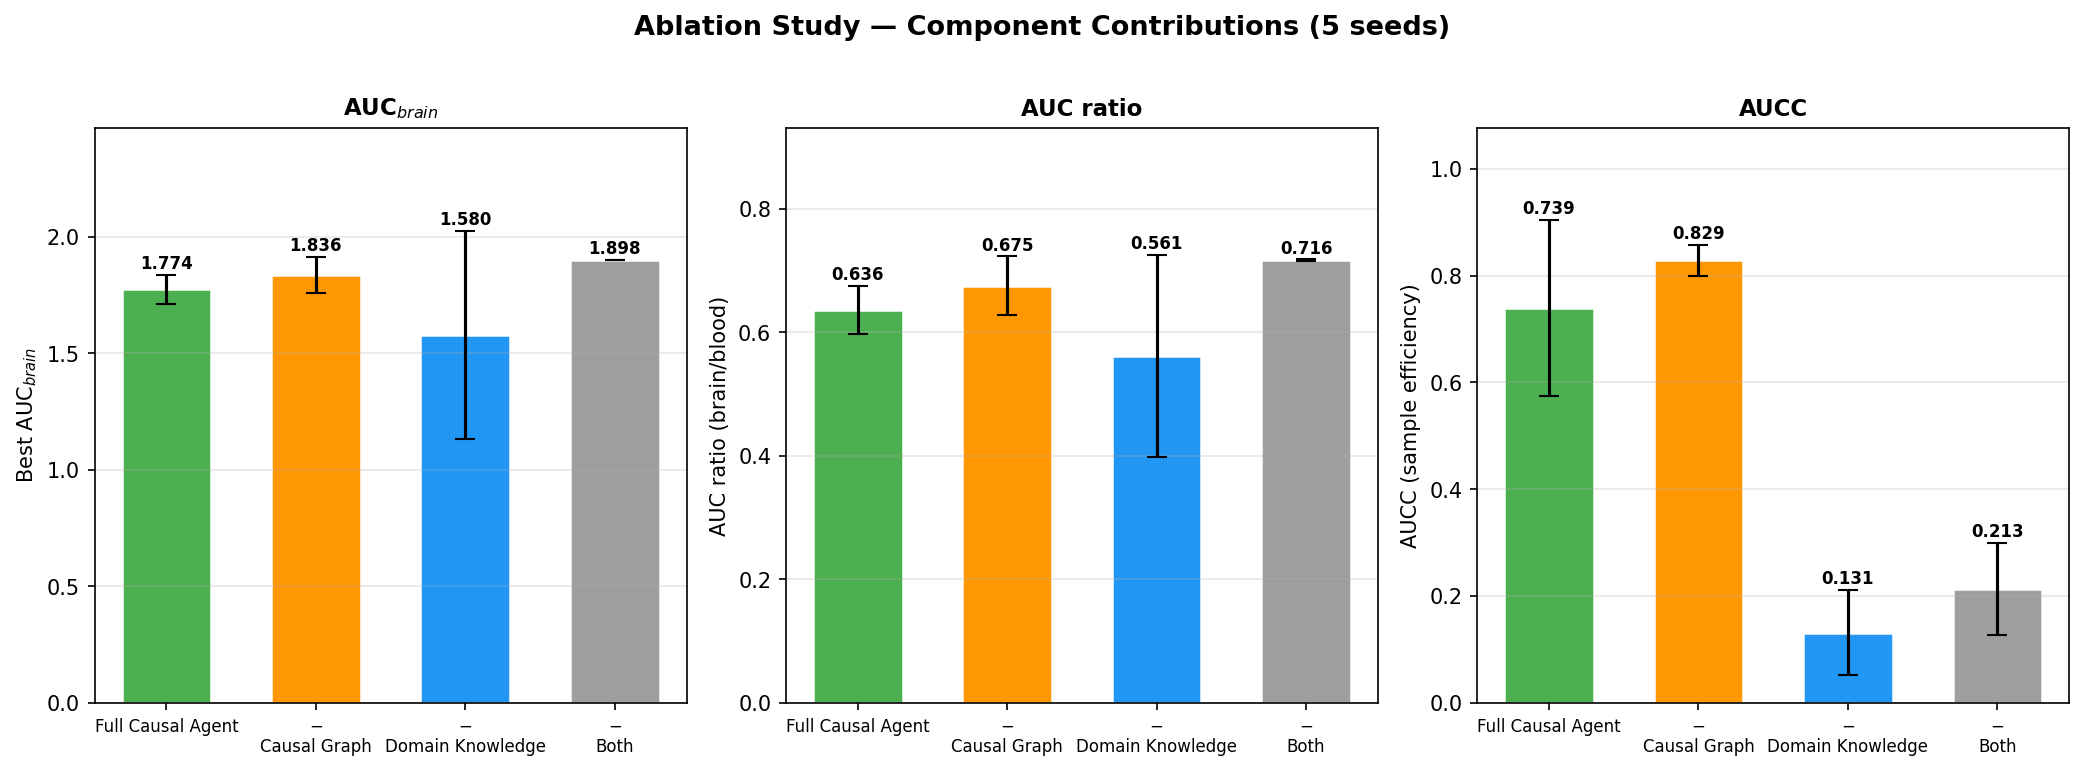
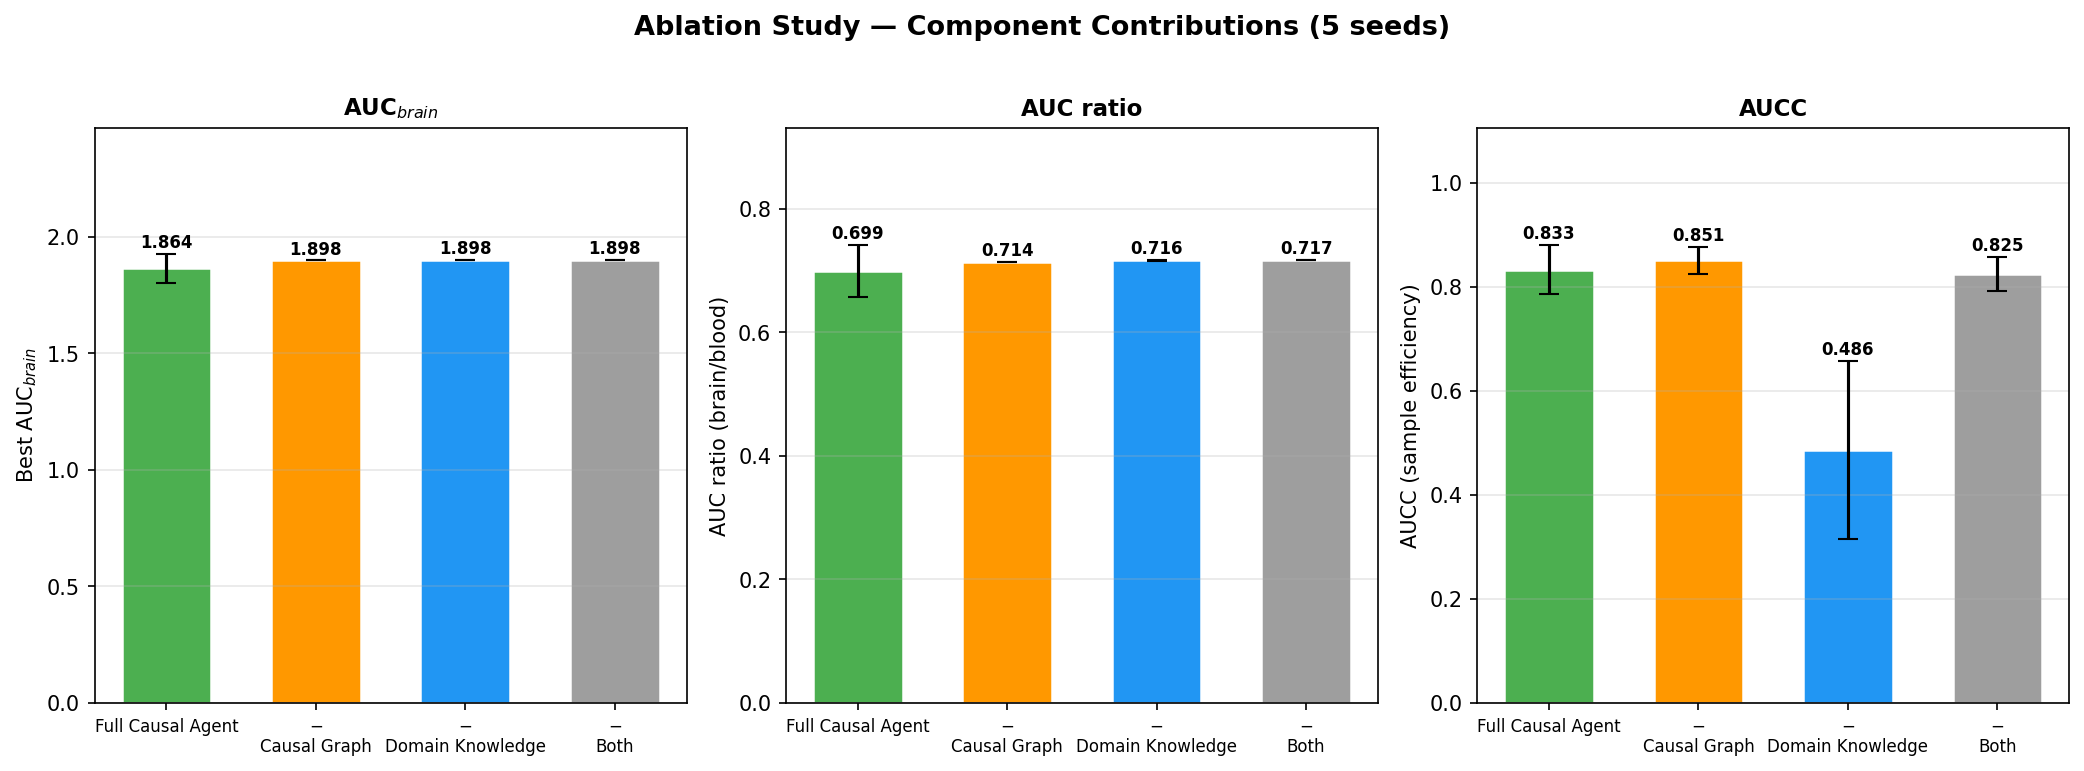
Phase 6: re-run ablation from starting point D (near-optimal)
Key finding: causal graph without domain knowledge is harmful (AUCC 0.486
vs 0.825 for -Both), confirming neuro-symbolic synergy hypothesis.
Domain knowledge reduces Sims->95% from ~24 to ~14 regardless of causal graph.

diff --git a/ablation.py b/ablation.py
@@ -54,8 +54,8 @@ from baselines_anon import (
 # ─────────────────────────────────────────────────────────────────────────────
 
 INITIAL_DESIGN = {
-    "size_nm": 150, "zeta_mv": 5, "peg": 0,
-    "ligand_type": "transferrin", "ligand_density": 120,
+    "size_nm": 80, "zeta_mv": -15, "peg": 1,
+    "ligand_type": "none", "ligand_density": 30,
 }
 
 CONDITIONS = [
